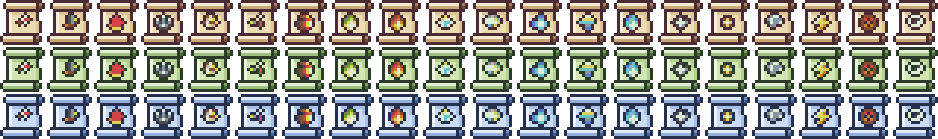
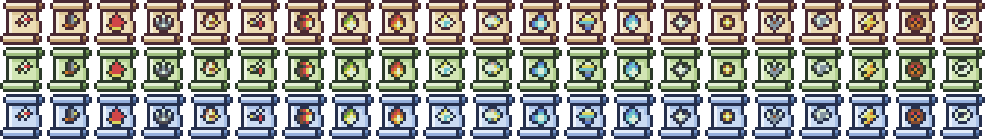
feat(spells): add Retaliation warrior boon (#137)
Agent-Logs-Url: https://github.com/chriskinch/phasercraft/sessions/824c9fd5-1e2d-41ab-895b-ab7c2666ed7c

diff --git a/src/entities/Spells/Retaliation.test.ts b/src/entities/Spells/Retaliation.test.ts
@@ -1,0 +1,93 @@
+import { describe, it, expect, vi } from "vitest";
+import Retaliation from "./Retaliation";
+
+interface RetaliationUnderTest {
+    duration: number;
+    reflect: number;
+    timer?: { remove: ReturnType<typeof vi.fn> };
+    scene: {
+        time: { addEvent: ReturnType<typeof vi.fn> };
+        events: { on: ReturnType<typeof vi.fn>; off: ReturnType<typeof vi.fn> };
+    };
+    player: {
+        boons: { addEffect: ReturnType<typeof vi.fn>; contains: ReturnType<typeof vi.fn> };
+        hero: { setTint: ReturnType<typeof vi.fn>; clearTint: ReturnType<typeof vi.fn> };
+    };
+    effect(): void;
+    clearEffect(): void;
+    cleanup(): void;
+    counter(damage: number, attackType?: string, attacker?: unknown): void;
+}
+
+function make(): RetaliationUnderTest {
+    const spell = Object.create(Retaliation.prototype) as RetaliationUnderTest;
+    spell.duration = 5;
+    spell.reflect = 0.5;
+    spell.scene = {
+        time: { addEvent: vi.fn(() => ({ remove: vi.fn() })) },
+        events: { on: vi.fn(), off: vi.fn() },
+    };
+    spell.player = {
+        boons: { addEffect: vi.fn(), contains: vi.fn(() => false) },
+        hero: { setTint: vi.fn(), clearTint: vi.fn() },
+    };
+    return spell;
+}
+
+const enemy = () => ({ alive: true, hit: vi.fn() });
+
+describe("Retaliation", () => {
+    it("adds a boon, tints, listens for damage and schedules expiry", () => {
+        const spell = make();
+        spell.effect();
+        expect(spell.player.boons.addEffect).toHaveBeenCalledWith(spell);
+        expect(spell.player.hero.setTint).toHaveBeenCalledWith(0x6699ff);
+        expect(spell.scene.events.on).toHaveBeenCalledWith("player:damaged", spell.counter, spell);
+        expect(spell.scene.time.addEvent.mock.calls[0][0].delay).toBe(5001);
+    });
+
+    it("re-cast does not double-register the listener", () => {
+        const spell = make();
+        spell.effect();
+        spell.effect();
+        expect(spell.scene.events.on).toHaveBeenCalledTimes(1);
+    });
+
+    it("reflects a share of melee damage at the attacker", () => {
+        const spell = make();
+        const e = enemy();
+        spell.counter(41, "melee", e);
+        expect(e.hit).toHaveBeenCalledWith({ power: 21, type: "physical" });
+    });
+
+    it("ignores ranged hits and dead attackers", () => {
+        const spell = make();
+        const e = enemy();
+        spell.counter(40, "ranged", e);
+        spell.counter(40, "melee", { ...e, alive: false });
+        spell.counter(40, "melee", undefined);
+        expect(e.hit).not.toHaveBeenCalled();
+    });
+
+    it("expiry releases the listener and clears the tint", () => {
+        const spell = make();
+        spell.effect();
+        spell.clearEffect();
+        expect(spell.scene.events.off).toHaveBeenCalledWith("player:damaged", spell.counter, spell);
+        expect(spell.player.hero.clearTint).toHaveBeenCalledTimes(1);
+        expect(spell.timer).toBeUndefined();
+    });
+
+    it("cleanup removes timer and listener, idempotently", () => {
+        const spell = make();
+        spell.effect();
+        const timer = spell.timer!;
+        const proto = Object.getPrototypeOf(Retaliation.prototype) as { cleanup(): void };
+        const superCleanup = vi.spyOn(proto, "cleanup").mockImplementation(() => {});
+        spell.cleanup();
+        spell.cleanup();
+        expect(timer.remove).toHaveBeenCalledTimes(1);
+        expect(spell.scene.events.off).toHaveBeenCalledTimes(1);
+        superCleanup.mockRestore();
+    });
+});

diff --git a/src/entities/Spells/Retaliation.ts b/src/entities/Spells/Retaliation.ts
@@ -1,0 +1,93 @@
+import Boon from "./Boon";
+import { spellDefDefaults } from "@/types/game";
+import { levelFactor } from "@/lib/levelScaling";
+import type { CombatType, SpellOptions } from "@/types/game";
+import type { EffectValue } from "@entities/UI/StatusEffects";
+import type Enemy from "@entities/Enemy/Enemy";
+
+// Fraction of melee damage taken that is reflected at the attacker (L1).
+const BASE_REFLECT = 0.5;
+
+class Retaliation extends Boon {
+    public type: string;
+    public duration: number;
+    // No stat modifiers: the boon only marks the active window.
+    public value: Record<string, EffectValue> = {};
+    public reflect: number;
+    public timer?: Phaser.Time.TimerEvent;
+    // Whether the "player:damaged" listener is registered.
+    private listening = false;
+    private baseDuration!: number;
+
+    constructor(config: SpellOptions) {
+        const defaults = {
+            name: "retaliation",
+            ...spellDefDefaults("Retaliation"),
+            type: "physical",
+            duration: 5,
+            value: {},
+        };
+
+        super({ ...defaults, ...config });
+
+        this.hasAnimation = false;
+        this.type = "physical";
+        this.duration = 5;
+        this.reflect = BASE_REFLECT;
+        this.baseDuration = this.duration;
+        this.applyLevel();
+    }
+
+    applyLevel(): void {
+        this.duration = this.baseDuration * levelFactor(this.spellType, "duration", this.level);
+        this.reflect = BASE_REFLECT * levelFactor(this.spellType, "reflect", this.level);
+    }
+
+    effect(): void {
+        this.player.boons.addEffect(this);
+        this.player.hero.setTint(0x6699ff);
+
+        if (!this.listening) {
+            this.scene.events.on("player:damaged", this.counter, this);
+            this.listening = true;
+        }
+
+        this.timer?.remove();
+        this.timer = this.scene.time.addEvent({
+            delay: this.duration * 1000 + 1, // Extra ms to ensure effect is over before clearing
+            callback: this.clearEffect,
+            callbackScope: this,
+        });
+    }
+
+    // Melee hits only: reflect a share of the damage actually taken.
+    counter(damage: number, attackType?: CombatType, attacker?: Enemy): void {
+        if (attackType !== "melee" || !attacker?.alive) return;
+        const power = Math.ceil(damage * this.reflect);
+        if (power > 0) attacker.hit({ power, type: "physical" });
+    }
+
+    private stopListening(): void {
+        if (!this.listening) return;
+        this.scene.events.off("player:damaged", this.counter, this);
+        this.listening = false;
+    }
+
+    clearEffect(): void {
+        this.timer = undefined;
+        this.stopListening();
+        if (!this.player.boons.contains(this)) this.player.hero.clearTint();
+    }
+
+    cleanup(): void {
+        this.timer?.remove();
+        this.timer = undefined;
+        this.stopListening();
+        super.cleanup();
+    }
+
+    setAnimation(): void {}
+    animationUpdate(): void {}
+}
+
+export default Retaliation;

diff --git a/src/types/game.ts b/src/types/game.ts
@@ -765,6 +765,7 @@ export type SpellType =
     | "ManaShield"
     | "Multishot"
     | "PowerInfusion"
+    | "Retaliation"
     | "SiphonSoul"
     | "Smite"
     | "SnareTrap"
@@ -1043,6 +1044,20 @@ export const SPELL_DEFS: Record<SpellType, SpellDef> = {
         targetKind: "ground",
         scaling: { duration: SPELL_LEVEL_POWER, damage: SPELL_LEVEL_POWER },
     },
+    Retaliation: {
+        name: "Retaliation",
+        description: "Punish those who strike you.",
+        effect: "Reflects part of the melee damage you take back at the attacker.",
+        classes: ["Warrior"],
+        icon_name: "icon_0032_retaliation",
+        cooldown: 20,
+        cost: { rage: 10, mana: 80, energy: 30 },
+        targetKind: "self",
+        scaling: {
+            duration: { 1: 1, 2: 1.25, 3: 1.5 },
+            reflect: { 1: 1, 2: 1.3, 3: 1.6 },
+        },
+    },
     Whirlwind: {
         name: "Whirlwind",
         description: "Spin into the fray.",
@@ -1098,6 +1113,7 @@ export const SPELL_ASPECTS: Record<SpellType, readonly string[]> = {
     SiphonSoul: ["power"],
     Smite: ["power"],
     SnareTrap: ["duration", "damage", "lifespan"],
+    Retaliation: ["duration", "reflect"],
     Whirlwind: ["power"],
 };
 
@@ -1169,6 +1185,7 @@ export const SPELL_RECIPES: Record<SpellType, SpellRecipe> = {
     SiphonSoul: { materials: { bone: 8, ichor: 4 }, coins: 30, special: "void-pearl" },
     Smite: { materials: { cloth: 8, scrap: 4 }, coins: 25, special: "ember-core" },
     SnareTrap: { materials: { cloth: 8, bone: 6 }, coins: 25, special: "frost-shard" },
+    Retaliation: { materials: { scrap: 10, bone: 8 }, coins: 30, special: "ember-core" },
     Whirlwind: { materials: { scrap: 10, bone: 5 }, coins: 30, special: "frost-shard" },
 };
 

diff --git a/src/lib/classKits.ts b/src/lib/classKits.ts
@@ -10,7 +10,7 @@ export const CLASS_KITS: Record<PlayerName, readonly SpellType[]> = {
     Mage: ["Fireball", "Frostbolt", "EarthShield", "ManaShield", "Invocation"],
     Occultist: ["Fireball", "SiphonSoul", "Enfeeble", "BloodFurnace"],
     Ranger: ["SnareTrap", "Multishot", "AimedShot", "Focus"],
-    Warrior: ["Whirlwind", "Enrage", "BattleStomp"],
+    Warrior: ["Whirlwind", "Enrage", "BattleStomp", "Retaliation"],
 };
 
 // Every spell id the game knows. A Record keyed by SpellType so the compiler
@@ -35,6 +35,7 @@ const KNOWN_SPELLS: Record<SpellType, true> = {
     SiphonSoul: true,
     Smite: true,
     SnareTrap: true,
+    Retaliation: true,
     Whirlwind: true,
 };
 

diff --git a/src/entities/Player/Player.ts b/src/entities/Player/Player.ts
@@ -406,6 +406,7 @@ class Player extends GameObjects.Container {
         this.retaliate(attacker);
         const damage = Math.ceil(power * (100 / (100 + (this.stats.defence || 0))));
         this.scene.events.emit("player:attacked", this);
+        this.scene.events.emit("player:damaged", damage, attackType, attacker);
         const hasShield = "hasShield" in this.shield && this.shield.hasShield();
         const pool = hasShield ? this.shield : this.health;
         // Forward the attacker's combat type so the caster can decide whether

diff --git a/src/entities/Spells/AssignSpell.ts b/src/entities/Spells/AssignSpell.ts
@@ -17,6 +17,7 @@ import PowerInfusion from "./PowerInfusion";
 import SiphonSoul from "./SiphonSoul";
 import Smite from "./Smite";
 import SnareTrap from "./SnareTrap";
+import Retaliation from "./Retaliation";
 import Whirlwind from "./Whirlwind";
 import type Spell from "./Spell";
 import type { SpellOptions, SpellType } from "@/types/game";
@@ -45,6 +46,7 @@ const classes = {
     SiphonSoul,
     Smite,
     SnareTrap,
+    Retaliation,
     Whirlwind,
 } satisfies Record<SpellType, new (opts: SpellOptions) => Spell>;
 

diff --git a/src/helpers/scrollSprites.test.ts b/src/helpers/scrollSprites.test.ts
@@ -211,7 +211,7 @@ describe("composition", () => {
         expect(Buffer.from(a.image.data).equals(Buffer.from(b.image.data))).toBe(true);
         expect(a.json).toEqual(b.json);
         expect(createHash("sha256").update(a.image.data).digest("hex")).toMatchInlineSnapshot(
[2 lines of base64/hex data omitted]
         );
     });
 });

diff --git a/src/store/gameReducer.test.ts b/src/store/gameReducer.test.ts
@@ -914,7 +914,7 @@ describe("abilities", () => {
                 "Whirlwind",
                 "Enrage",
                 "BattleStomp",
-                null,
+                "Retaliation",
                 null,
             ]);
             expect(gameReducer(init(), selectCharacter("Ranger")).abilityLoadout[4]).toBeNull();

diff --git a/src/helpers/scrollSprites.ts b/src/helpers/scrollSprites.ts
@@ -47,6 +47,7 @@ export const SPELL_ICON_NAMES: Record<SpellType, string> = {
     SiphonSoul: "icon_0000_death",
     Smite: "icon_0007_bolt",
     SnareTrap: "icon_0020_shackle",
+    Retaliation: "icon_0032_retaliation",
     Whirlwind: "icon_0005_coil",
 };
 

diff --git a/src/entities/Spells/spellDefs.test.ts b/src/entities/Spells/spellDefs.test.ts
@@ -51,6 +51,7 @@ const ALL_SPELLS: SpellType[] = [
     "ManaShield",
     "Multishot",
     "PowerInfusion",
+    "Retaliation",
     "SiphonSoul",
     "Smite",
     "SnareTrap",

diff --git a/src/lib/scrollDrops.ts b/src/lib/scrollDrops.ts
@@ -34,6 +34,7 @@ export const SCROLL_DROP_WEIGHTS: Record<SpellType, number> = {
     SiphonSoul: 1,
     Smite: 1,
     SnareTrap: 1,
+    Retaliation: 1,
     Whirlwind: 1,
 };
 
